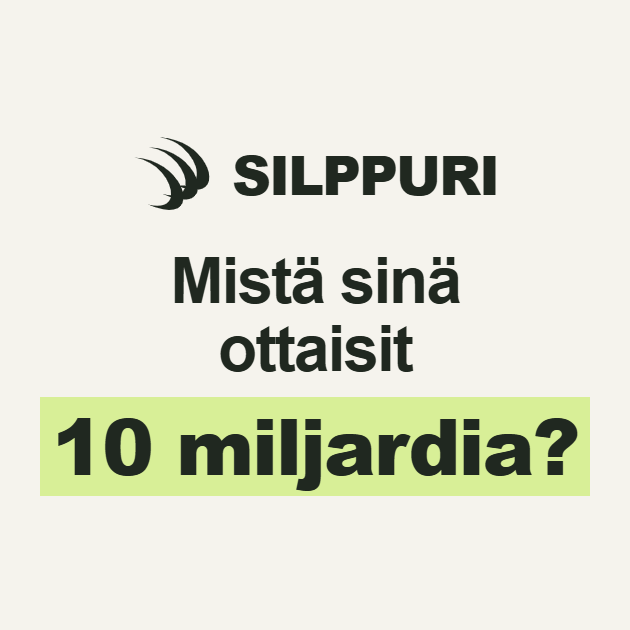
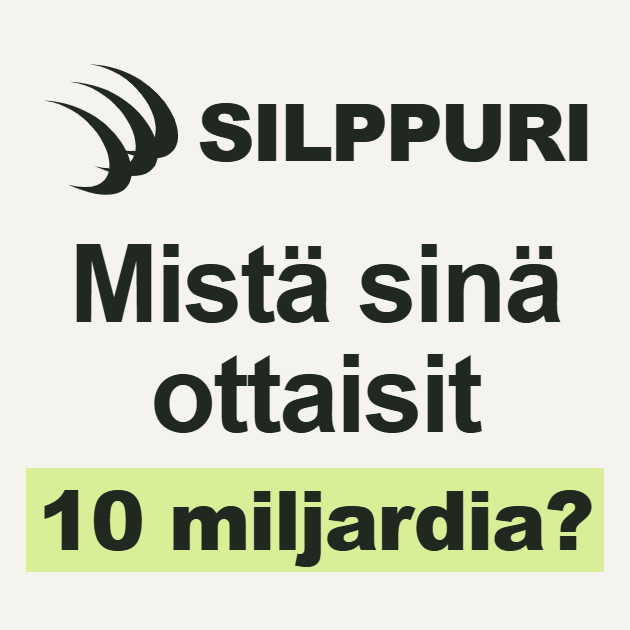
Fill square link preview with larger branding and headline

diff --git a/src/assets/social-preview.html b/src/assets/social-preview.html
@@ -6,11 +6,11 @@
 <style>
 *{box-sizing:border-box}
 html,body{margin:0;background:#f5f3ed;color:#202820;font-family:Arial,Helvetica,sans-serif}
-main{width:630px;height:630px;display:flex;flex-direction:column;align-items:center;justify-content:center;gap:34px}
-.brand{display:flex;align-items:center;gap:20px;font-size:54px;font-weight:800;letter-spacing:-2px}
-.brand svg{display:block;width:80px;height:80px}
-h1{margin:0;text-align:center;font-size:64px;font-weight:700;line-height:1.06;letter-spacing:-2px}
-h1 strong{display:table;margin:14px auto 0;padding:6px 12px 10px;background:#d8ef97;font-size:78px;letter-spacing:-2px}
+main{width:630px;height:630px;display:flex;flex-direction:column;align-items:center;justify-content:center;gap:28px}
+.brand{display:flex;align-items:center;gap:14px;font-size:80px;font-weight:800;letter-spacing:-3px}
+.brand svg{display:block;width:144px;height:144px}
+h1{margin:0;text-align:center;font-size:108px;font-weight:700;line-height:1.02;letter-spacing:-3px}
+h1 strong{display:table;margin:18px auto 0;padding:6px 12px 10px;background:#d8ef97;font-size:82px;line-height:1.08;letter-spacing:-2px}
 </style>
 </head>
 <body>
